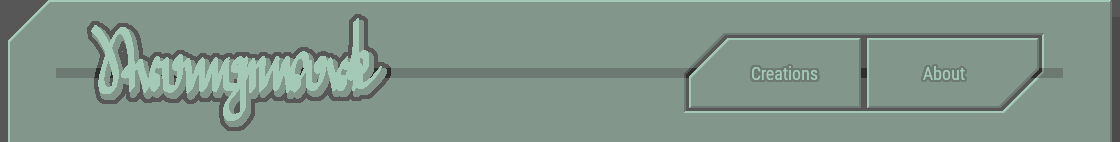
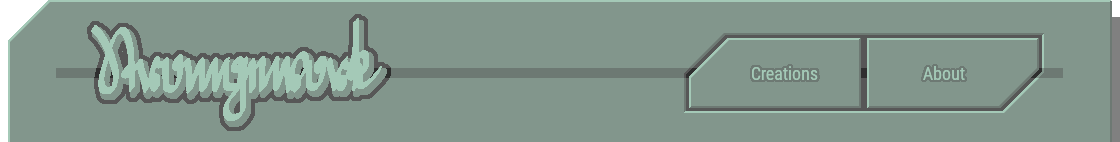
Added placeholders for new pages, added background

Changed region(s): [[0.0, 0.0, 0.0625, 1.0], [0.9688, 0.0, 1.0, 1.0]]

diff --git a/templates/layout.html b/templates/layout.html
@@ -11,6 +11,7 @@
     <div style="margin: auto; width: 1120px; height: 142px">
       <img src="{{ url_for('static', filename='menu.png')}}" width="1120" height="142" usemap="#navmap">
       <map name="navmap">
+        <area shape="rect" coords="91, 18, 382, 121" href="calligraphy">
         <area shape="poly" coords="691, 106, 691, 78, 729, 40, 859, 40, 859, 106" href="creations">
         <area shape="poly" coords="868, 105, 868, 40, 1036, 40, 1036, 68, 999, 105" href="about">
       </map>

diff --git a/templates/about.html b/templates/about.html
@@ -1,0 +1,14 @@
+{% extends "layout.html" %}
+{% block title %}Index{% endblock %}
+{% block head %}
+  {{ super() }}
+  <link rel="stylesheet" href="{{ url_for('static', filename='twocolumns.css') }}">
+{% endblock %}
+{% block content %}
+  <div>
+  <center> 
+  <h1>My name is Nicholas Yang Chee</h1>
+  <p>I am a programmer, tinkerer, and dancer. This website will forever be under construction</p>
+  </center>
+  </div>
+{% endblock %}

diff --git a/templates/calligraphy.html b/templates/calligraphy.html
@@ -1,0 +1,13 @@
+{% extends "layout.html" %}
+{% block title %}Creations{% endblock %}
+{% block head %}
+  {{ super() }}
+  <link rel="stylesheet" href="{{ url_for('static', filename='twocolumns.css') }}">
+{% endblock %}
+{% block content %}
+  <div>
+  <center>
+  <p>I make things</p> 
+  </center>
+  </div>
+{% endblock %}

diff --git a/templates/creations.html b/templates/creations.html
@@ -1,0 +1,13 @@
+{% extends "layout.html" %}
+{% block title %}Creations{% endblock %}
+{% block head %}
+  {{ super() }}
+  <link rel="stylesheet" href="{{ url_for('static', filename='twocolumns.css') }}">
+{% endblock %}
+{% block content %}
+  <div>
+  <center>
+  <p>I make things</p> 
+  </center>
+  </div>
+{% endblock %}

diff --git a/static/style.css b/static/style.css
@@ -11,10 +11,12 @@ h1 {
 }
 
 p {
-  color: #4b4b4b;
+  color: #2f2f2f;
 }
 
 body {
+  background-image: url("/static/background.png");
+  background-attachment: fixed;
   background-color: #575757;
 }
 

diff --git a/strangework.py b/strangework.py
@@ -11,6 +11,18 @@ app = flask.Flask(__name__)
 def index():
     return flask.render_template('index.html')
 
+@app.route('/calligraphy')
+def calligraphy():
+    return flask.render_template('calligraphy.html')
+
+@app.route('/creations')
+def creations():
+    return flask.render_template('creations.html')
+
+@app.route('/about')
+def about():
+    return flask.render_template('about.html')
+
 @app.route('/ssd_harness')
 def ssd_harness():
     return flask.render_template('ssd_harness.html')
